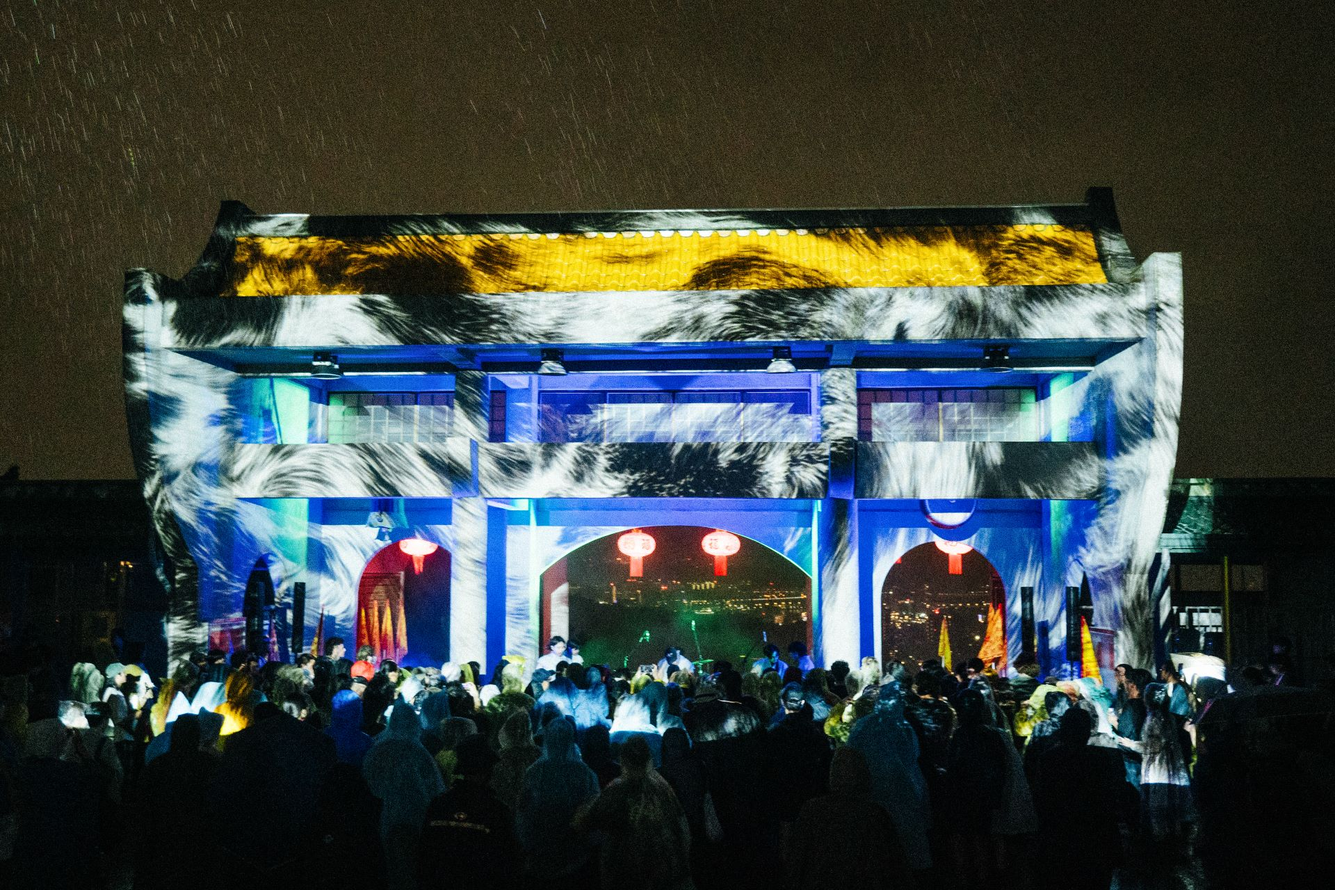
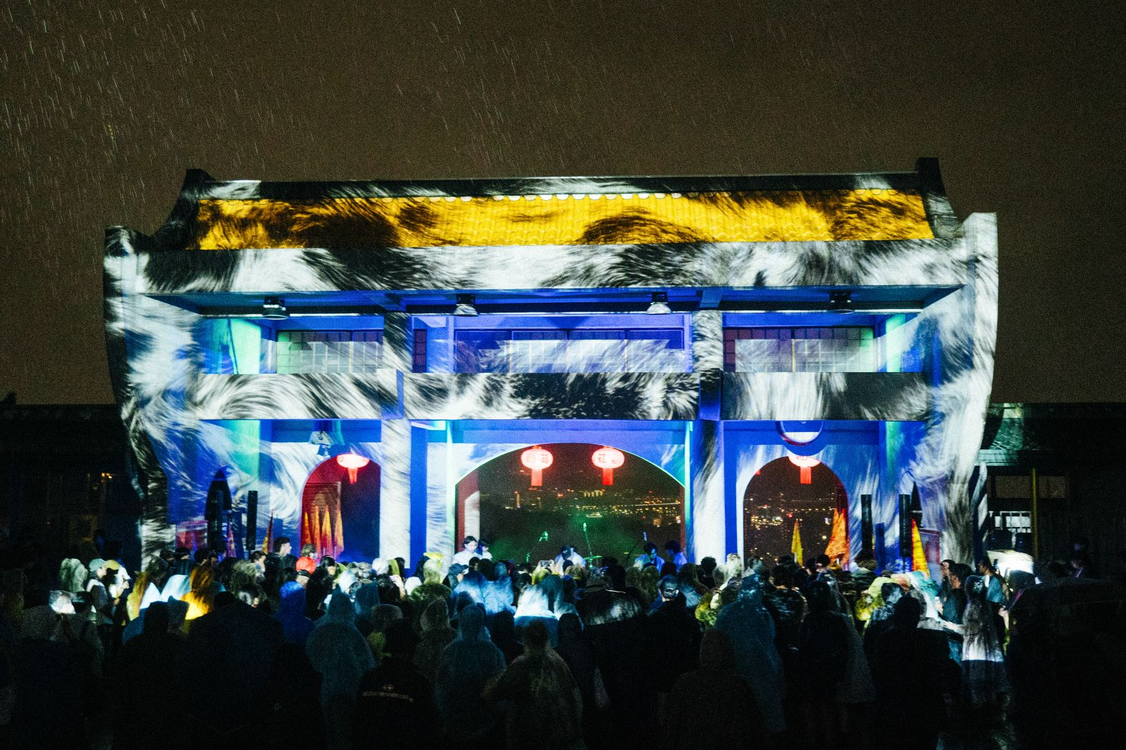
work html and photos

Changed region(s): [[0.5247, 0.4278, 0.5556, 0.4583]]

diff --git a/works.html b/works.html
@@ -102,7 +102,7 @@
                 </a>
                 <!-- 作品 7 -->
                 <a href="projects/project-5.html" class="work-item">
-                    <img src="images/Daniel/Daniel-F-5.7.jpg" alt="Project 7">
+                    <img src="images/Daniel/Daniel-F.jpg" alt="Project 7">
                     <div class="work-info">
                         <span class="work-title">DanielYeung<br>FreespaceDance-exhibitionist</span>
                         <span class="work-type">Real-time Generative Visual</span>
